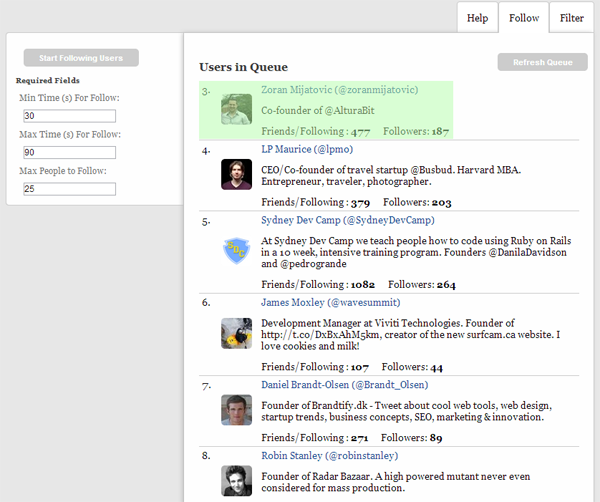
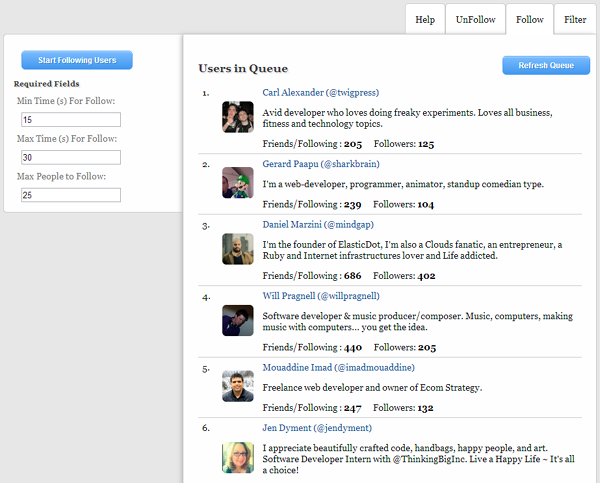
Updated README and screenshots to reflect that new unfollowing feature.

diff --git a/index.html b/index.html
@@ -22,8 +22,9 @@
         <div class="leftColumn">
             <div class="content-block">
                 <div id="unFollowUsersBtn"
-                   onclick="FindToFollow.UnFollow.startAutomaticUnFollowing();return false;"
-                   class="blue-button">Start UnFollowing Users (<span id="unFollowPageSelectedCount">0</span>)</div>
+                     onclick="FindToFollow.UnFollow.startAutomaticUnFollowing();return false;"
+                     class="blue-button">Start UnFollowing Users (<span id="unFollowPageSelectedCount">0</span>)
+                </div>
 
                 <h2>Required Fields</h2>
                 <label for="unFollowIntervalTimeMinimum">Min Time (s) For UnFollow:</label>
@@ -194,8 +195,12 @@
 
         <h2>UnFollow People</h2>
 
-        <p>Unfollowing is coming soon. For now the recommended method is: <a href="http://manageflitter.com"
-                                                                             target="_blank">manageflitter.com</a></p>
+        <p>You can unfollow people by flicking over to the UnFollow tab. We do not automatically load the list of users
+            that do not
+            follow you back to save Twitter API calls. To load the list click the button labelled "Load Users". You can
+            then select users
+            that you wish to unfollow, specify an interval (similar to how we do with following), click "Start
+            Unfollowing Users" button and let the work be done for you.</p>
 
         <p>
             For more information visit this project on github: <a

diff --git a/README.md b/README.md
@@ -7,6 +7,8 @@ Written to automate the task of finding interesting and similar users that are l
 
 The selected users can then be followed automatically at random intervals generated between a specified minimum and maximum by processing the queue.
 
+We can also see a list of users that do not follow us back and automatically unfollow them at random intervals similar to how following works. 
+
 The application caches user profile information to cut down on Twitter API calls and network traffic. All caching is done on the local file system as I explicity wanted to avoid any reliance on a DB.
 
 The application also keeps track of users that you are following and those that you have followed in the past (but are no longer following) to avoid re-following. Unfortunately Twitter does not expose a service to get a list of all people you have followed in the past, so this feature only works on users you have followed and then unfollowed while using this application.
@@ -14,6 +16,8 @@ The application also keeps track of users that you are following and those that 
 ![twitter-findtofollow Screenshot](https://github.com/kylethielk/twitter-findtofollow/blob/develop/images/screenshot.png?raw=true)
 
 ![twitter-findtofollow Staggered Following Screenshot](https://github.com/kylethielk/twitter-findtofollow/blob/develop/images/screenshot-2.png?raw=true)
+
+![twitter-findtofollow Staggered UnFollowing Screenshot](https://github.com/kylethielk/twitter-findtofollow/blob/develop/images/screenshot-3.png?raw=true)
 
 Instructions
 ------------
@@ -26,6 +30,8 @@ Then simply load index.html in your browser and let the application do the rest.
 
 Updates
 -------
+
+**June 22, 2013** - Release 1.1. has been brached off. This branch contains the stable release of following and filtering. Develop branch now has unfollowing.
 
 **June 9, 2013** - Release 1.0 has been branched off. This branch contains the last code that forces following without the use of a queue. Now all filtered users are first added to a queue, and then the queue is processed independently from filtering.  Before upgrading to latest code either 
 
